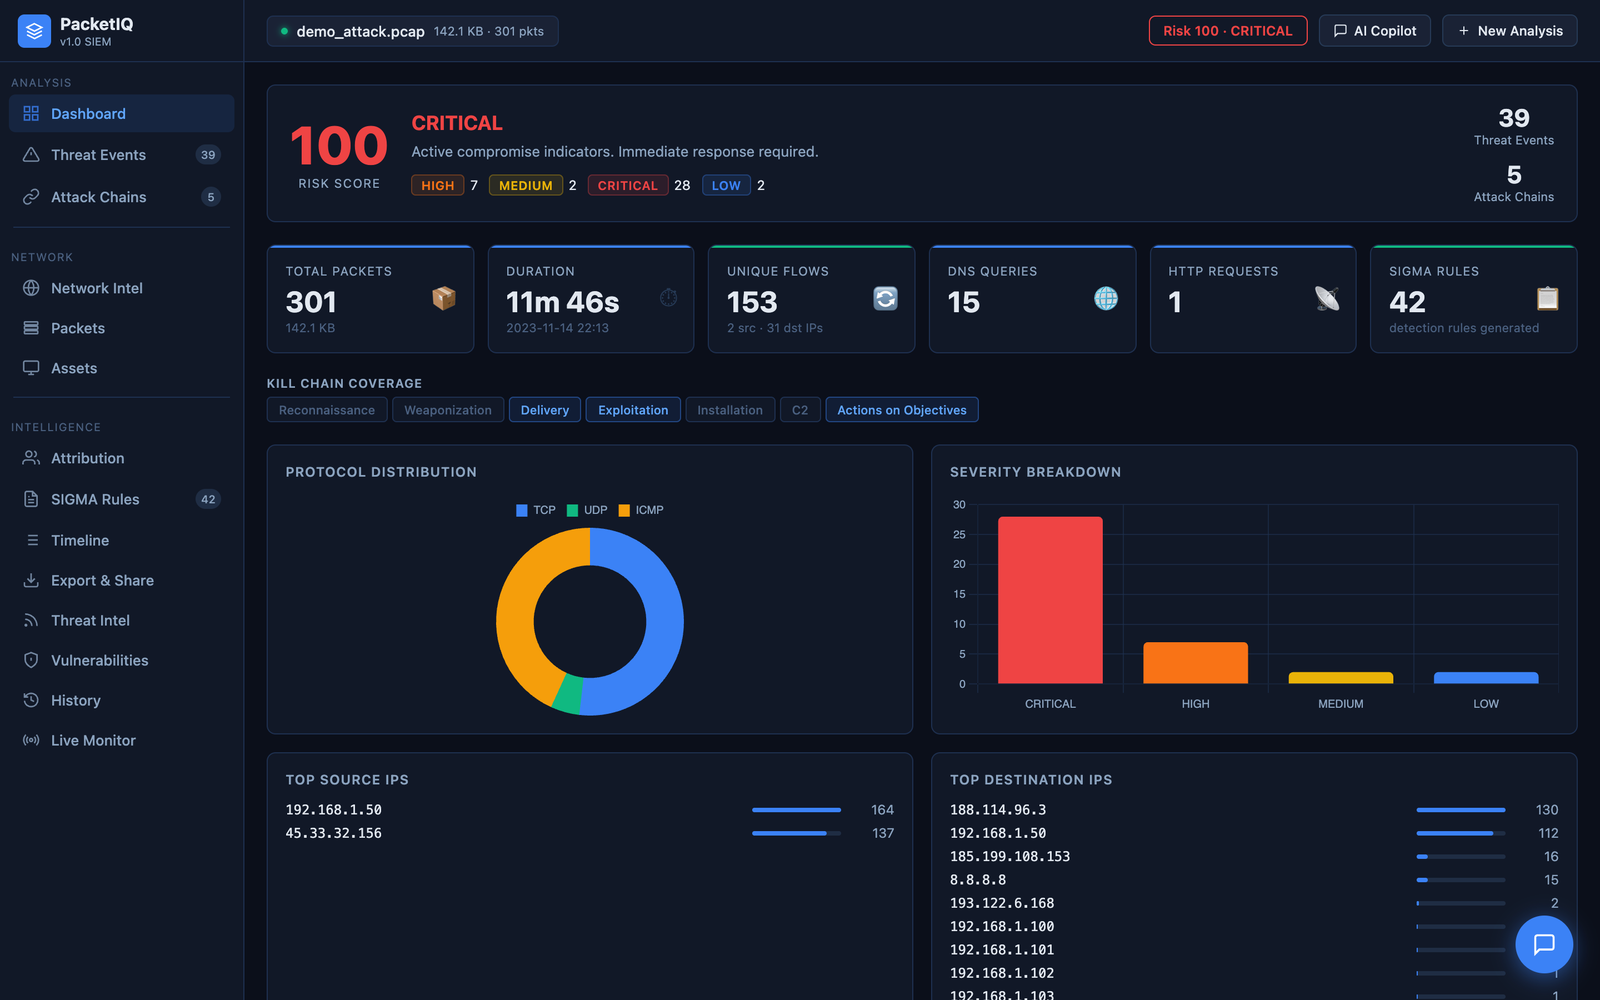
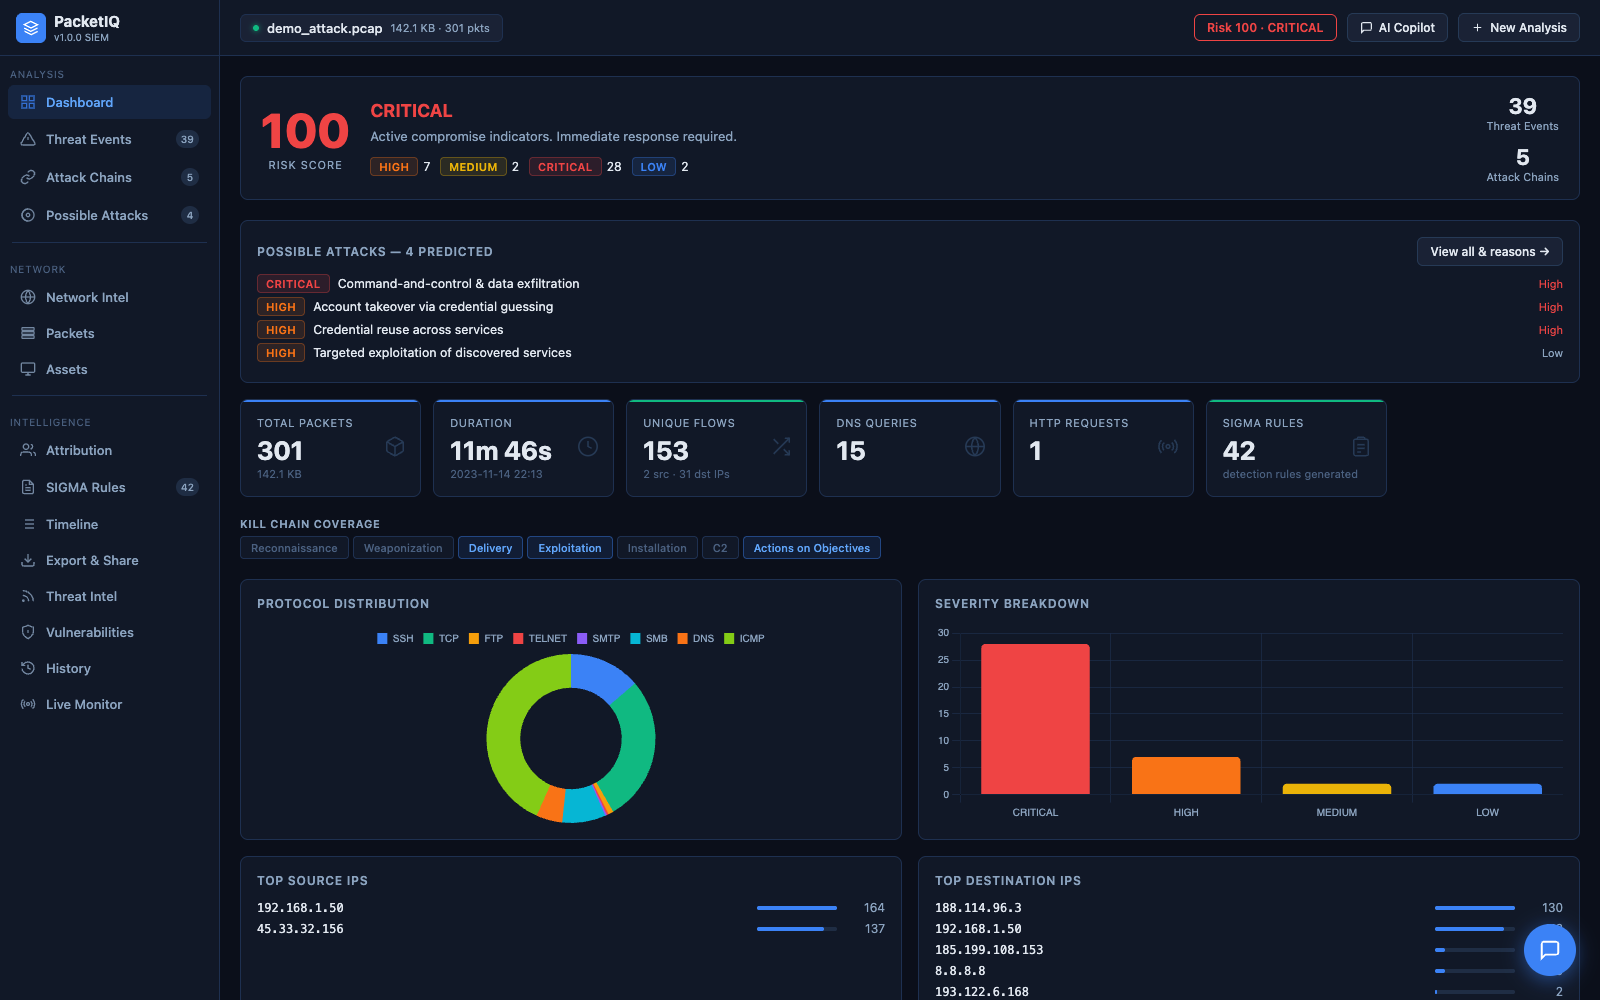
Refactor code structure and remove redundant functions for improved readability and maintainability

diff --git a/tests/test_project_metadata_sync.py b/tests/test_project_metadata_sync.py
@@ -257,7 +257,14 @@ def test_the_readme_detector_module_count_matches_the_package():
 
 
 def test_the_readme_never_claims_more_indicators_than_the_feeds_hold():
-    """`7,600+` is a floor, so it may only ever be under the real count.
+    """The README's indicator count may only ever be at or under the real one.
+
+    Both forms are accepted — a floor (`8,300+`) and the exact bundled total
+    (`8,398`) — because the README states the exact figure now that it is quoted
+    beside a screenshot of the feeds panel. The `+` is therefore optional in the
+    pattern; what is not optional is the direction of the comparison, so a
+    bundled snapshot that ever shrinks fails here rather than leaving the README
+    overclaiming.
 
     Counted the way the app's own feeds panel counts: per-feed entries as
     ingested, plus the JA3 fingerprint blocklist.
@@ -266,10 +273,10 @@ def test_the_readme_never_claims_more_indicators_than_the_feeds_hold():
     from packetiq.enrichment.feeds import load_store
 
     real = sum(load_store().counts.values()) + len(load_blocklist())
-    claimed = {int(n.replace(",", "")) for n in re.findall(r"`?([\d,]+)\+`?\s*(?:live )?(?:threat-intel )?indicators", _readme())}
+    claimed = {int(n.replace(",", "")) for n in re.findall(r"`?([\d,]+)\+?`?\*{0,2}\s*(?:live )?(?:threat-intel )?indicators", _readme())}
     assert claimed, "the README no longer states an indicator count"
     for n in claimed:
-        assert n <= real, f"README claims {n:,}+ indicators; the feeds hold {real:,}"
+        assert n <= real, f"README claims {n:,} indicators; the feeds hold {real:,}"
 
 
 # ── 5. The container build <-> the files it copies ───────────────────────────

diff --git a/README.md b/README.md
@@ -41,11 +41,11 @@
 
 <img src="docs/screenshots/01-dashboard.png" alt="PacketIQ analyst dashboard — risk score, kill-chain coverage, protocol and severity breakdowns" width="100%"/>
 
-<sub>⬆ <i>The live web app analysing a capture. <b>Every screenshot in this README is the real running app</b> — nothing mocked, nothing staged.</i></sub>
+<sub>⬆ <i>The live web app on the bundled <code>samples/demo_attack.pcap</code>: risk 100/100, 39 threat events, 5 correlated attack chains, 4 predicted follow-on attacks. <b>Every screenshot in this README is the real running app</b> — nothing mocked, nothing staged.</i></sub>
 
 <br/><br/>
 
-**`100%` recall** · **`90%` precision** on real CTU-13 malware · **`18`** detection types · **`8,300+`** threat-intel indicators · **`1,756`** tests · **`ruff`-clean**
+**`100%` recall** · **`90%` precision** on real CTU-13 malware · **`18`** detection types · **`8,398`** threat-intel indicators · **`1,756`** tests · **`100%`** coverage · **`ruff`-clean**
 
 </div>
 
@@ -69,7 +69,7 @@
 
 ## 🎬 See It In Action
 
-<div align="center"><sub>A guided tour of the browser app analysing the bundled <code>samples/demo_attack.pcap</code> — real screenshots, not mockups.</sub></div>
+<div align="center"><sub>A guided tour of the browser app. Every image is the <b>real running app</b> — nothing mocked, nothing staged. Most panels analyse the bundled <code>samples/demo_attack.pcap</code>; the two marked <b>CTU-13</b> analyse <code>donbot.pcap</code>, a genuine Stratosphere botnet capture, because a device-level view only means something on traffic carrying real hardware addresses.</sub></div>
 
 <br/>
 
@@ -78,53 +78,74 @@
 <td width="50%" valign="top">
 <img src="docs/screenshots/02-threat-events.png" alt="Threat events with an expanded 'why was this flagged' explainability panel"/>
 <b>🔍 Threat Events → “Why was this flagged?”</b><br/>
-<sub>Every detection expands into <b>what · why · evidence · recommended action · MITRE</b>. No black box — each alert defends itself.</sub>
+<sub>Every detection expands into <b>what · why · evidence · recommended action · MITRE</b>, and every row carries a one-click <b>evidence-PCAP download</b>. No black box — each alert defends itself.</sub>
 </td>
 <td width="50%" valign="top">
 <img src="docs/screenshots/03-attack-chains.png" alt="Attack-chain correlation with MITRE ATT&CK coverage heatmap and kill-chain pipeline"/>
 <b>🔗 Attack-Chain Correlation</b><br/>
-<sub>A <b>MITRE ATT&CK coverage heatmap</b> (techniques × tactics) plus a visual kill-chain pipeline per attacker, with a one-click ATT&CK Navigator layer.</sub>
+<sub>A <b>MITRE ATT&CK coverage heatmap</b> — 23 techniques across 8 tactics in this capture — plus a visual kill-chain pipeline per attacker and a one-click ATT&CK Navigator layer.</sub>
 </td>
 </tr>
 <tr>
 <td width="50%" valign="top">
-<img src="docs/screenshots/04-network-graph.png" alt="Interactive force-directed connection graph"/>
-<b>🌐 Interactive Connection Graph</b><br/>
-<sub>Force-directed, draggable, colour-coded <b>internal / external / flagged</b> — the attacker lights up as the hub instantly.</sub>
+<img src="docs/screenshots/04-possible-attacks.png" alt="Possible Attacks threat-forecast panel with per-prediction evidence"/>
+<b>🔮 Possible Attacks — Threat Forecast</b><br/>
+<sub>What this capture is <i>exposed to</i>, inferred from the services and behaviour actually observed — each with <b>the evidence that produced it</b> and why it follows. Labelled a prediction, not an event; when a scan found nothing open, it says so.</sub>
 </td>
 <td width="50%" valign="top">
-<img src="docs/screenshots/05-packet-inspector.png" alt="Wireshark-style packet inspector"/>
+<img src="docs/screenshots/05-network-graph.png" alt="Device-level network connection graph on a real CTU-13 botnet capture"/>
+<b>🌐 Network Connection Graph <sup>CTU-13</sup></b><br/>
+<sub>Device-level topology built from <b>link-layer evidence</b> — attacker, target, internal hosts, gateway/infra. Only NICs that actually transmitted are drawn; probed-but-silent addresses are excluded rather than invented.</sub>
+</td>
+</tr>
+<tr>
+<td width="50%" valign="top">
+<img src="docs/screenshots/06-device-inventory.png" alt="Device inventory with MAC, OUI vendor, role and passive OS fingerprints"/>
+<b>🖧 Device Inventory & OS Fingerprints <sup>CTU-13</sup></b><br/>
+<sub>Every physical device that transmitted, keyed by <b>MAC</b> with OUI vendor, inferred role (host / gateway) and protocols — beside passive <b>TTL-based OS inference</b> and hop distance.</sub>
+</td>
+<td width="50%" valign="top">
+<img src="docs/screenshots/07-packet-inspector.png" alt="Wireshark-style packet inspector with layer tree and hex"/>
 <b>🧬 Wireshark-style Packet Inspector</b><br/>
-<sub>Every packet, searchable, colour-by-protocol. Protocol/Info decided by <b>payload inspection like Wireshark</b>, not by port alone — click any packet for layers, fields, hex + “Explain with AI”.</sub>
+<sub>Every packet, searchable, colour-by-protocol — click any one for its <b>layer/field tree, raw hex</b> and “Explain with AI”. Protocol and Info come from <b>payload inspection like Wireshark</b>, not from the port number.</sub>
 </td>
 </tr>
 <tr>
 <td width="50%" valign="top">
-<img src="docs/screenshots/07-threat-intel.png" alt="Real OSINT threat-intelligence feeds panel"/>
-<b>📡 Real OSINT Threat Intel</b><br/>
-<sub><b>8,300+ indicators</b> from abuse.ch, Spamhaus & Tor ship in the box — cross-referenced against every capture, and refreshable from source with <code>packetiq feeds update</code>. <b>Nothing fabricated.</b></sub>
+<img src="docs/screenshots/08-timeline.png" alt="Attack timeline with activity density and phase transitions"/>
+<b>🕰 Attack Timeline</b><br/>
+<sub>Activity density over the capture beside the reconstructed sequence — <b>phase transitions, chain starts and the silent gaps</b> between bursts, each traceable to its packets.</sub>
 </td>
 <td width="50%" valign="top">
-<img src="docs/screenshots/09-attribution.png" alt="Threat-actor TTP overlap panel with disclaimers"/>
-<b>🎯 Threat-Actor TTP Overlap</b><br/>
-<sub>Behavioural similarity to known APT / crime-group profiles — <b>clearly labelled an investigative lead, <i>not</i> confirmed attribution</b>. Honesty over hype.</sub>
-</td>
-</tr>
-<tr>
-<td width="50%" valign="top">
-<img src="docs/screenshots/06-sigma-rules.png" alt="Deployable SIGMA detection rules"/>
+<img src="docs/screenshots/09-sigma-rules.png" alt="Deployable SIGMA detection rules with inline YAML"/>
 <b>📜 Deployable SIGMA Rules</b><br/>
-<sub>Auto-generated, <b>pySigma-valid</b> (validated in CI), compatible with Splunk / Elastic / Sentinel / QRadar — exported as a ZIP.</sub>
+<sub>Auto-generated and <b>pySigma-valid</b> (validated in CI), compatible with Splunk / Elastic / Sentinel / QRadar — readable inline as YAML, exported as a ZIP.</sub>
+</td>
+</tr>
+<tr>
+<td width="50%" valign="top">
+<img src="docs/screenshots/10-threat-intel.png" alt="Real OSINT threat-intelligence feeds panel with provenance"/>
+<b>📡 Real OSINT Threat Intel</b><br/>
+<sub><b>8,398 indicators</b> across six abuse.ch / Spamhaus / Tor feeds ship in the box and refresh from source on demand (shown here freshly updated), each carrying <b>its provenance and age</b>. <b>Nothing fabricated</b> — and when a capture matches nothing, it says exactly that.</sub>
 </td>
 <td width="50%" valign="top">
-<img src="docs/screenshots/10-exports.png" alt="Export and share panel"/>
+<img src="docs/screenshots/11-attribution.png" alt="Threat-actor TTP overlap panel with disclaimers"/>
+<b>🎯 Threat-Actor TTP Overlap</b><br/>
+<sub>Behavioural similarity to known APT / crime-group profiles — <b>clearly labelled an investigative lead, <i>not</i> confirmed attribution</b>, on every single card. Honesty over hype.</sub>
+</td>
+</tr>
+<tr>
+<td width="50%" valign="top">
+<img src="docs/screenshots/12-exports.png" alt="Export and share panel"/>
 <b>📤 Export & Share</b><br/>
-<sub><b>Court-ready PDF</b> (chain-of-custody + SHA-256), STIX 2.1, MISP push, ATT&CK Navigator, evidence PCAP carving, Telegram / Slack / email.</sub>
+<sub><b>Court-ready PDF</b> (chain-of-custody + SHA-256), STIX 2.1, MISP push, ATT&CK Navigator layer, SIGMA ZIP, evidence-PCAP carving, Telegram / Slack / email.</sub>
+</td>
+<td width="50%" valign="top">
+<b>…and the rest of the app</b><br/>
+<sub>Also in the browser, and not pictured here: a streaming <b>AI SOC copilot</b>; a <b>live-capture monitor</b> that streams packets and findings straight off a NIC; a version-aware <b>NVD/CVE + CISA-KEV</b> vulnerability panel; and a local <b>analysis history</b> of every capture you have run.</sub>
 </td>
 </tr>
 </table>
-
-<div align="center"><sub>…plus an <b>AI SOC copilot</b>, a <b>live-capture monitor</b>, a version-aware <b>NVD/CVE + CISA-KEV</b> panel, a timeline, and analysis history — all in the browser.</sub></div>
 
 ---
 
@@ -307,8 +328,10 @@ packetiq <command> [options]
 **Everything PacketIQ can do is in the browser — no terminal required.** A modern FastAPI single-page app with real-time WebSocket progress:
 
 - **Drag-and-drop upload** — `.pcap` / `.pcapng` / `.cap`, a Zeek `conn.log`, a **NetFlow/IPFIX export**, **or 2+ captures for a fused campaign**
-- **Risk dashboard** — score, severity breakdown, protocol mix, top talkers
-- **Interactive connection graph** — force-directed, draggable, color-coded (internal / external / flagged)
+- **Risk dashboard** — score, severity breakdown, protocol mix, top talkers, and the predicted follow-on attacks
+- **Possible Attacks** panel — a **threat forecast**: what the capture is *exposed to*, inferred from the services and behaviour actually observed, each prediction carrying the evidence that produced it, why it follows, the recommended action and its MITRE techniques. Explicitly a prediction, never reported as an event — and it stays quiet on a benign capture
+- **Interactive connection graph** — force-directed and draggable, drawn at **device level from link-layer evidence**: one node per NIC that actually transmitted, colour-coded attacker / target / internal / gateway-infra, with scan and attack edges. Addresses that were only ever *probed* are left out rather than drawn as hosts that may not exist
+- **Assets** panel — a **device inventory** (MAC, OUI vendor, inferred role, protocols, packet counts) beside passive **TTL-based OS fingerprints** with hop distance and internal/external scope
 - **Packet inspector** — browse **every packet** with search; click any packet to see its layer/field tree + hex (Wireshark-style, but friendly), and **"Explain with AI"**. Protocol + Info columns are decided by **payload inspection like Wireshark** (a bare SYN on :80 reads "TCP", a real handshake reads "TLS 1.2 Client Hello", etc.), not by port alone
 - **Threat events** table with evidence, confidence, a **precision grade** (Confirmed/High/Probable/Tentative) and an expandable **"Why was this flagged?"** panel (what · why · evidence · recommended action · MITRE), plus a **per-finding evidence-PCAP download (⬇)**
 - **Attack chains** with a **visual kill-chain pipeline**, a **MITRE ATT&CK coverage heatmap**, and a one-click **ATT&CK Navigator layer** export
@@ -319,7 +342,7 @@ packetiq <command> [options]
 - **Vulnerabilities** panel — one-click assessment that maps each host's observed software → **CPE** → **real NVD CVEs** (version-aware) → **CVSS** → **CISA KEV** (actively-exploited) → a vulnerability risk score, and **correlates observed exploit attempts against the target's real software** (attack seen + target vulnerable). All data from NVD + CISA; encrypted traffic exposes no banners
 - **History** panel — every past analysis, recorded locally
 - **Live Monitor** panel — pick an interface, watch **every packet + findings** stream live, **download the captured PCAP**, or **"Stop & Analyze"** to run the full report on it. First run needs capture rights — a **"🔓 Enable live capture (one-time)"** button does the OS setup for you (one password prompt), so no per-run `sudo` afterwards
-- **Timeline** with an activity sparkline
+- **Timeline** — an activity-density bar beside the reconstructed sequence: kill-chain phase transitions, chain starts, individual findings and the silent gaps between bursts
 - **AI copilot** chat panel (streaming, optional)
 
 > **100% feature parity with the CLI.** Single & multi-capture analysis, Zeek logs, NetFlow/IPFIX exports, live capture, SIGMA / STIX / MISP / HTML / AI reports, evidence PCAPs, threat-intel feeds, history, and alerts are all driveable from the browser — the CLI just shares the same engine for scripting/CI.
@@ -403,27 +426,31 @@ which measures all three local models on the same capture.
 ## 📐 Architecture
 
 ```
-            ┌──────────── INPUTS ────────────┐
-            │  PCAP / PCAPng   Zeek conn.log  │
-            │        Live interface (sniff)   │
-            └────────────────┬────────────────┘
-                             ▼
-        Parser ──▶ Extractor (flows, DNS/HTTP, TCP state)
-                             │
-                             ▼
+        ┌──────────────────── INPUTS ────────────────────┐
+        │  PCAP / PCAPng / cap        Zeek conn.log      │
+        │  NetFlow v5 / v9 / IPFIX    Live interface     │
+        └───────────────────────┬────────────────────────┘
+                                ▼
+    Parser ──▶ Extractor (flows, DNS/HTTP, TCP state, MAC devices)
+                                │
+                                ▼
    ┌──────────────── Detection Engine (sequential) ─────────────────┐
-   │ brute force · port/host/stealth scan · C2 beacon · DNS anomaly  │
-   │ ICMP tunnel · credential exposure · protocol misuse · HTTP atk  │
-   │ JA3/JA4 · TLS certs · file carving+YARA · IOC enrichment · OSfp │
+   │ brute force · port/host/stealth scan · ARP scan+spoof · DoS    │
+   │ C2 beacon · DNS anomaly · ICMP tunnel · credential exposure    │
+   │ protocol misuse · suspicious flags · HTTP attack · JA3/JA4     │
+   │ TLS certs · file carving+YARA · IOC enrichment · passive OSfp  │
    └────────────────────────────┬───────────────────────────────────┘
-                                 ▼
+                                ▼
    Correlation (8 rules) ─▶ MITRE ATT&CK + kill chain · TTP overlap · risk 0–100
-                                 │
-       ┌─────────────────────────┼─────────────────────────────┐
-       ▼                         ▼                              ▼
-  Terminal UI            Web app / dashboard            Exports & alerts
-  (rich tables)          (FastAPI + WS + graph)   SIGMA · STIX · MISP · HTML
-                          + AI copilot            evidence PCAP · Telegram/Slack
+                                │
+                                ▼
+   Threat forecast ─▶ what this exposure leads to next, with its evidence
+                                │
+       ┌────────────────────────┼─────────────────────────────┐
+       ▼                        ▼                             ▼
+  Terminal UI           Web app / dashboard           Exports & alerts
+  (rich tables)         (FastAPI + WS + graph)   SIGMA · STIX · MISP · HTML
+                         + AI copilot            evidence PCAP · Telegram/Slack
 ```
 
 ---
@@ -631,6 +658,6 @@ MIT © 2025 Jatin Kumar — see [`LICENSE`](LICENSE).
 
 <img src="https://capsule-render.vercel.app/api?type=waving&color=0:3b82f6,100:0b0f1a&height=100&section=footer&animation=fadeIn" width="100%" alt="Footer"/>
 
-<sub>Made with ❤ and a lot of PCAP files · PacketIQ v1.0.0 · MIT License</sub>
+<sub>Made with ❤ and a lot of PCAP files · PacketIQ v1.0.0, released 2026-08-11 · <a href="CHANGELOG.md">Release notes</a> · MIT License</sub>
 
 </div>

diff --git a/CHANGELOG.md b/CHANGELOG.md
@@ -43,6 +43,21 @@ Every document in the repository checked claim by claim against what the code an
 the captures actually do. Where a number could be re-measured, it was.
 
 **Fixed**
+- **The README's screenshots were a month behind the app, and two of its
+  descriptions had become false.** Every image was recaptured from the running web
+  app at the release commit. The drift they were hiding was not cosmetic: the whole
+  **Possible Attacks** panel and its dashboard card did not exist when the old images
+  were taken, nor did the per-finding evidence-PCAP download in the events table, and
+  the protocol breakdown still showed everything as bare TCP/UDP/ICMP rather than
+  naming SSH, FTP, SMB, SMTP and Telnet. Worse, the README described the connection
+  graph as "colour-coded internal / external / flagged" when it had been rebuilt as a
+  **device-level** graph — one node per NIC that actually transmitted, coloured
+  attacker / target / internal / gateway — and never mentioned the Assets panel at
+  all. Both are now documented, and the tour covers twelve panels instead of eight.
+  The device-level views are shot on `donbot.pcap`, a real Stratosphere CTU-13 botnet
+  capture, and labelled as such: the bundled synthetic demo capture emits every host
+  from one hardware address, so a device graph of it correctly collapses to a single
+  node and would have shown the panel doing its job while looking broken.
 - **A documented command that did not exist — resolved in the code, not the prose.**
   `docs/RELEASE.md` told the reader to verify an install with `packetiq --version`,
   which exited with `Error: No such option '--version'`. The first pass corrected the
@@ -92,9 +107,12 @@ the captures actually do. Where a number could be re-measured, it was.
   `copilot_faithfulness_comparison.md`, which was tracked only by the accident of
   predating the ignore rule.
 - **The README understated its own threat-intel corpus.** "7,600+ indicators" against
-  a measured **8,398** shipped (8,301 feed entries + 97 JA3 fingerprints); the floor
-  now reads 8,300+. Its description of them as "live" is now accurate about being a
-  bundled snapshot that `packetiq feeds update` refreshes.
+  a measured **8,398** shipped (8,301 feed entries + 97 JA3 fingerprints). It now
+  states that exact figure rather than a floor, because it is quoted beside a
+  screenshot of the feeds panel and a reader can count it. Its description of them as
+  "live" is now accurate about being a bundled snapshot that `packetiq feeds update`
+  refreshes. `tests/test_project_metadata_sync.py` accepts either form and still fails
+  in the one direction that matters — a claim the shipped feeds cannot back.
 - **A footgun in the dataset guide.** `datasets/README.md` told users to point their
   own validation run at `reports/detection_real.md`, which `--markdown` overwrites
   wholesale. It also never said that a manifest's `base_dir` resolves relative to the
